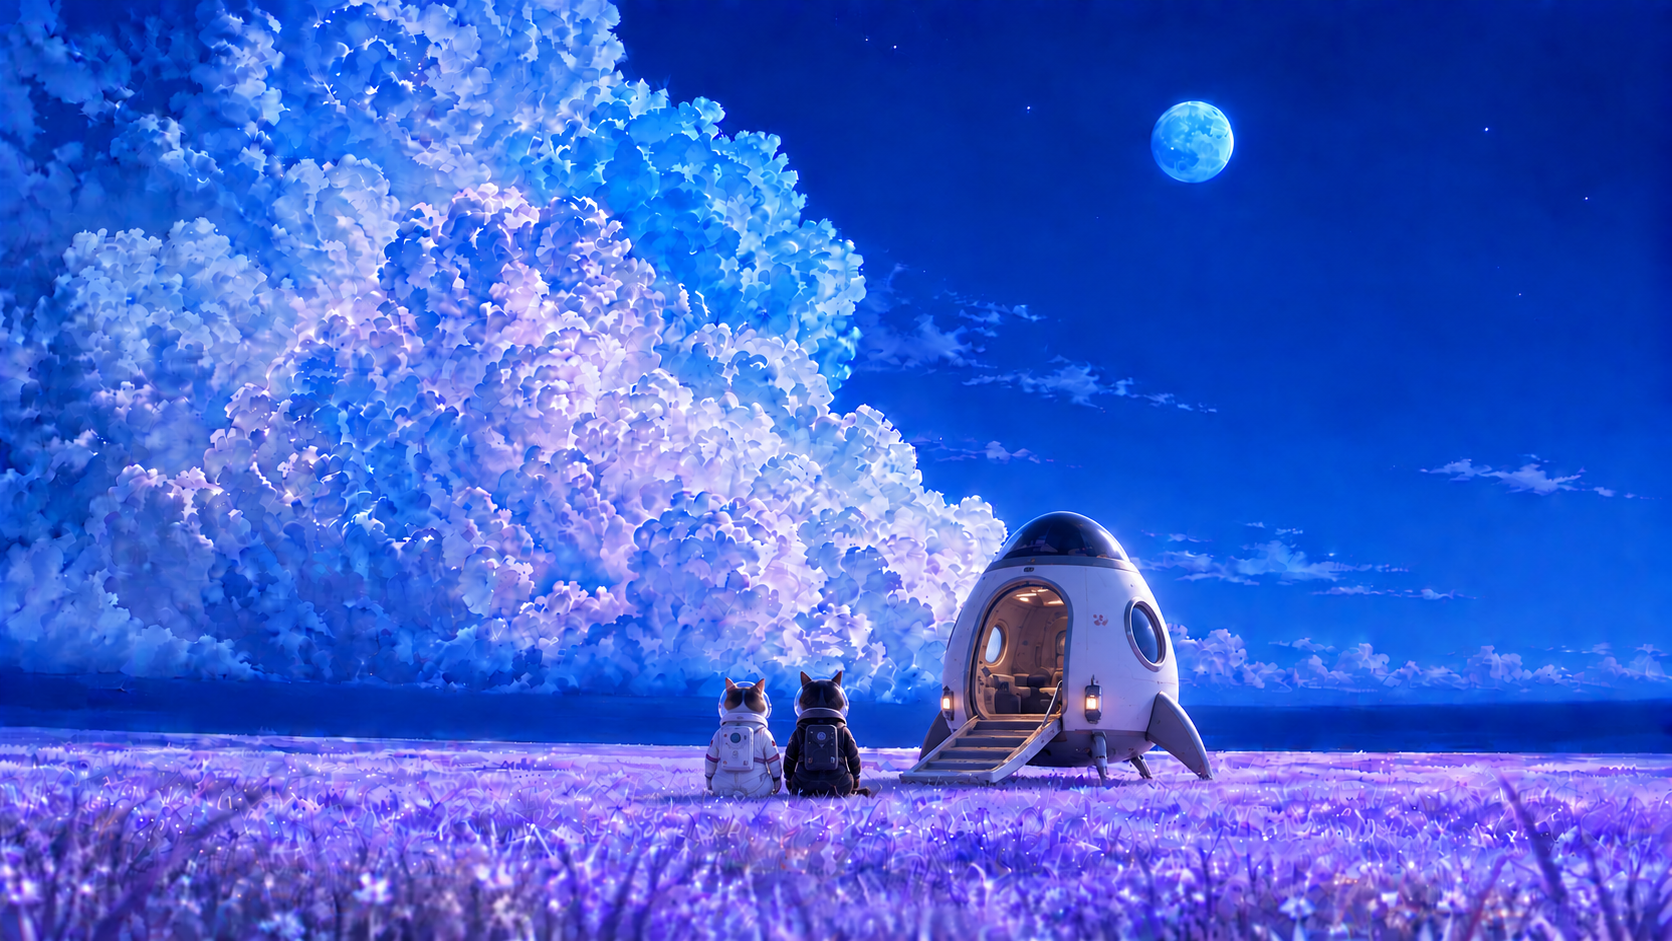
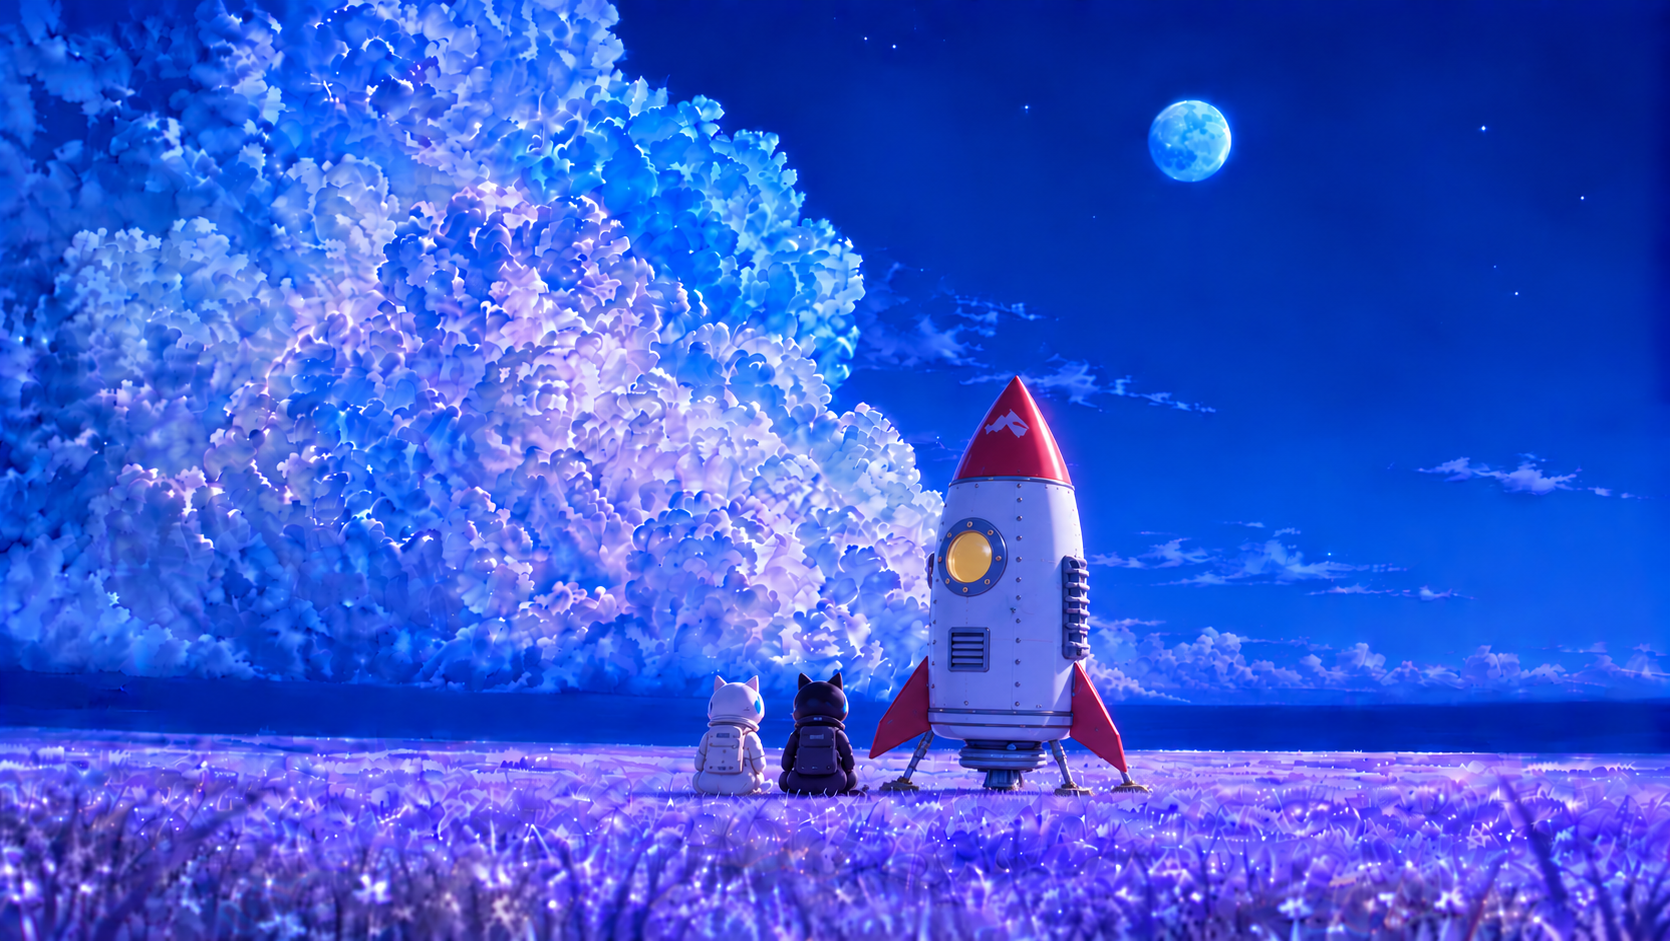
update easter egg ending

diff --git a/static/js/main.js b/static/js/main.js
@@ -117,8 +117,8 @@ const easterEggImages = [
     "/static/assets/images/easteregg/6.png",
     "/static/assets/images/easteregg/7.png",
     "/static/assets/images/easteregg/8.png",
-    "/static/assets/images/easteregg/9.png",
-    "/static/assets/images/easteregg/10.png"
+    "/static/assets/images/easteregg/9.png"
+  
 ];
 
 let easterEggIndex = 0;
